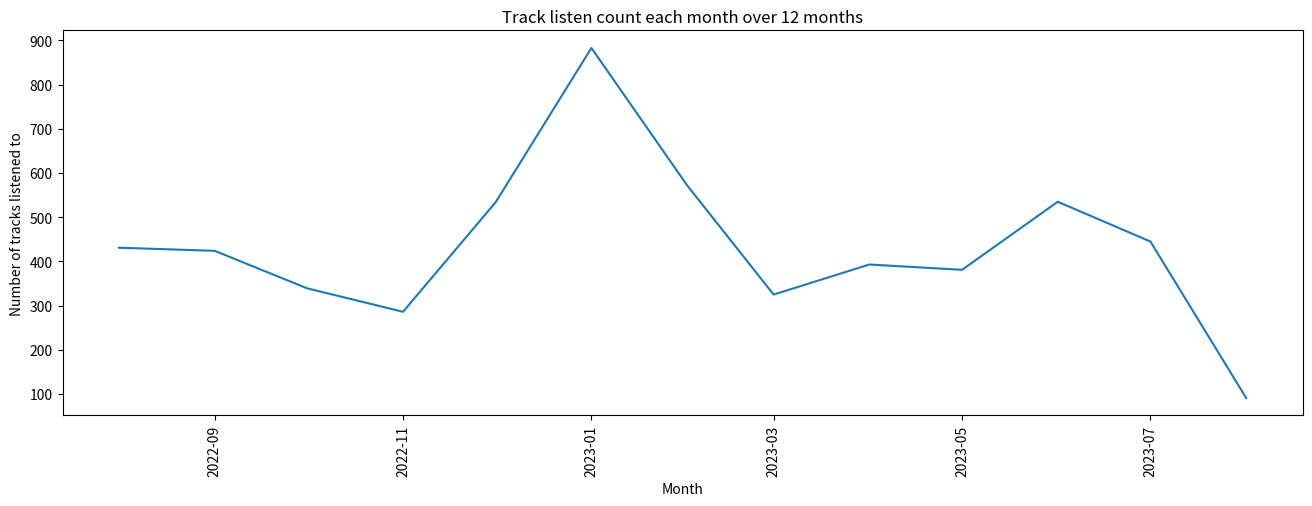
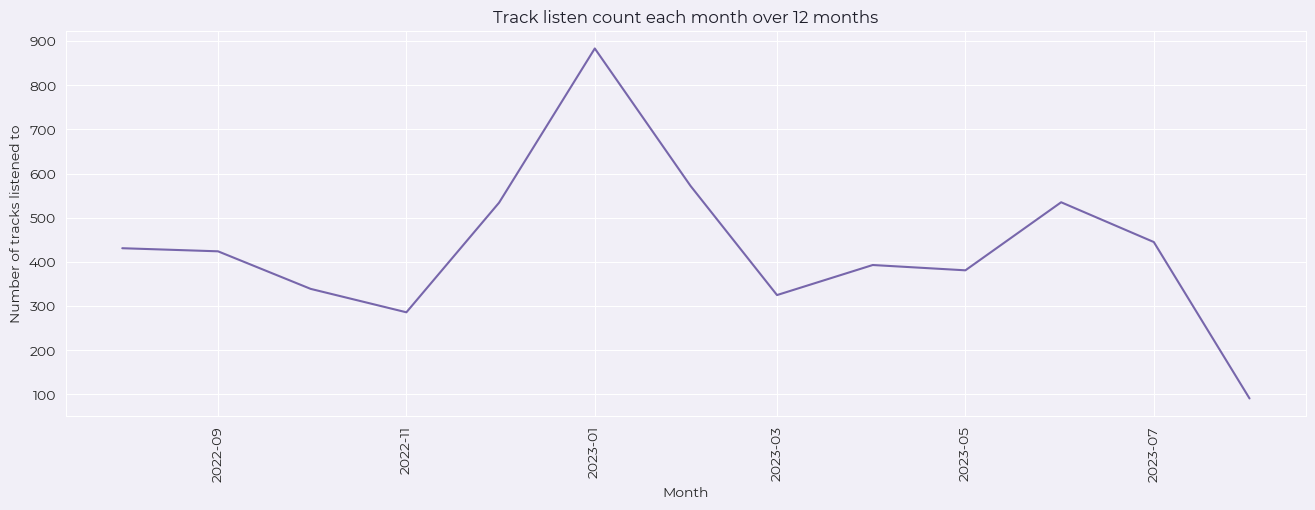
missing import

diff --git a/src/visualization/visualize.py b/src/visualization/visualize.py
@@ -4,6 +4,8 @@ import matplotlib.pyplot as plt
 import matplotlib.font_manager as fm
 import seaborn as sns
 
+from src.visualization.colors import dark_grey
+
 def change_matplotlib_font():
     FONT_PATH = os.path.abspath(os.path.join(os.path.dirname(__file__), "assets"))
 
